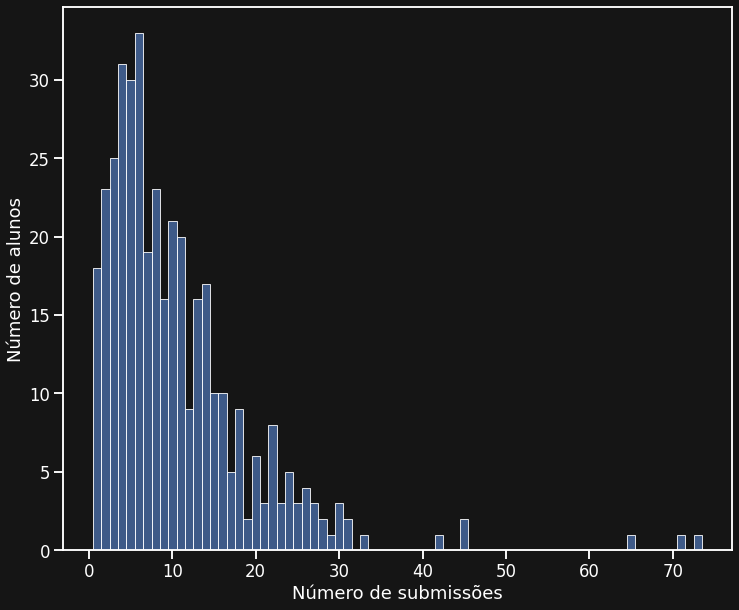
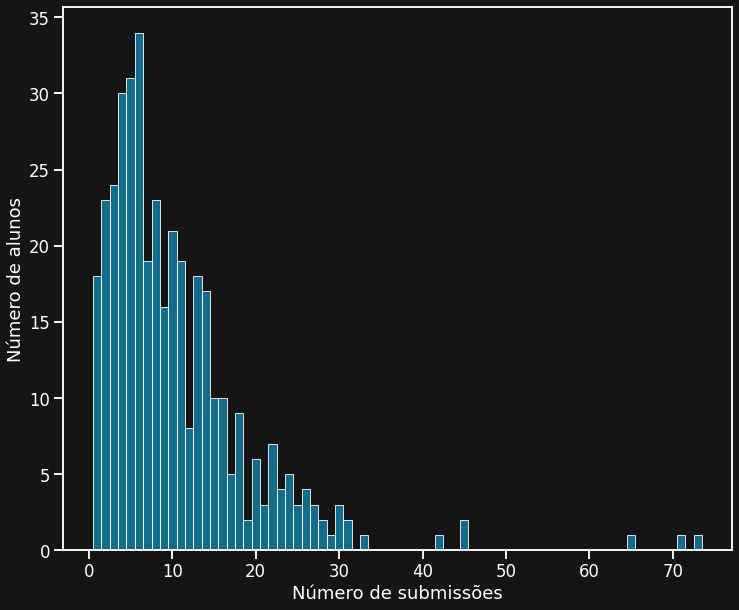
Update graphics color palette

diff --git a/index.html b/index.html
@@ -69,7 +69,7 @@
       <ul class="overview-list">
         <li>
           <span class="mdi mdi-send-check"></span>
-          <strong>4070</strong> submissões
+          <strong>4078</strong> submissões
         </li>
         <li>
           <span class="mdi mdi-account-group"></span>
@@ -102,7 +102,7 @@
       </div>
 
       <div class="grid">
-        <img src="img/sub-result-per-h.png" />
+        <img src="img/sub-result-per-min.png" />
       </div>
 
       <h3 style="color: var(--c5)">Múltiplas Submissões</h3>
@@ -127,12 +127,12 @@
       <ul class="list">
         <li>
           <span class="mdi mdi-medal"></span>
-          Dos 387 alunos que submeteram, <strong>87</strong> tiveram pontuação
+          Dos 387 alunos que submeteram, <strong>85</strong> tiveram pontuação
           máxima
         </li>
         <li>
           <span class="mdi mdi-emoticon-sad"></span>
-          <strong>18</strong> alunos terminaram com 0
+          <strong>20</strong> alunos terminaram com 0
         </li>
       </ul>
 
